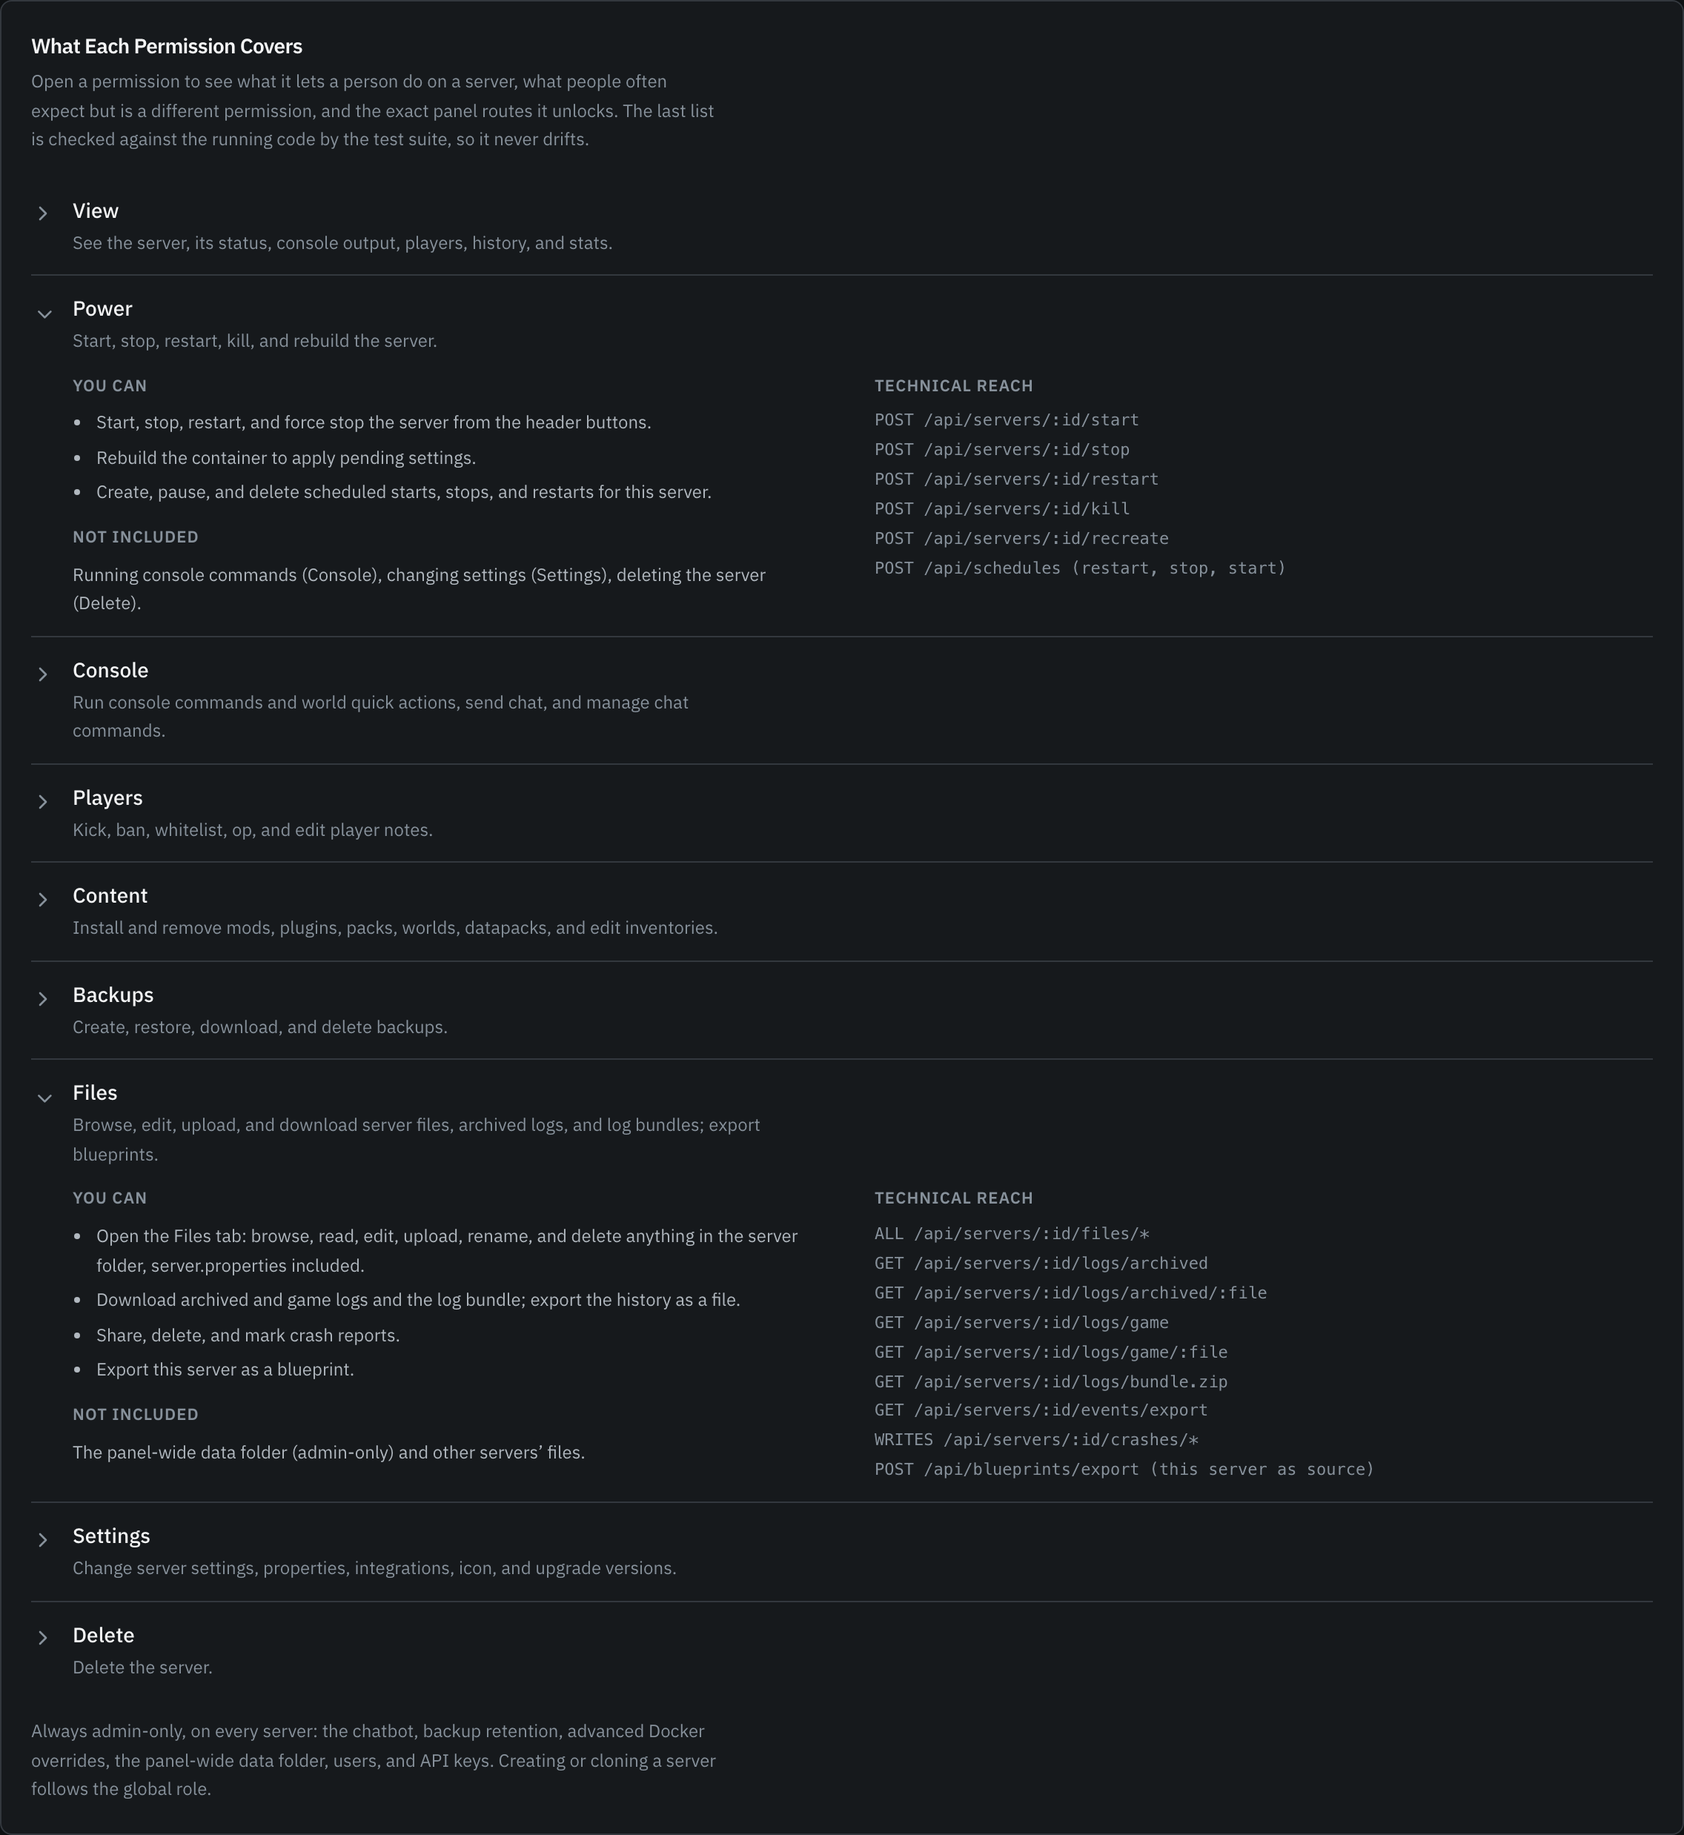
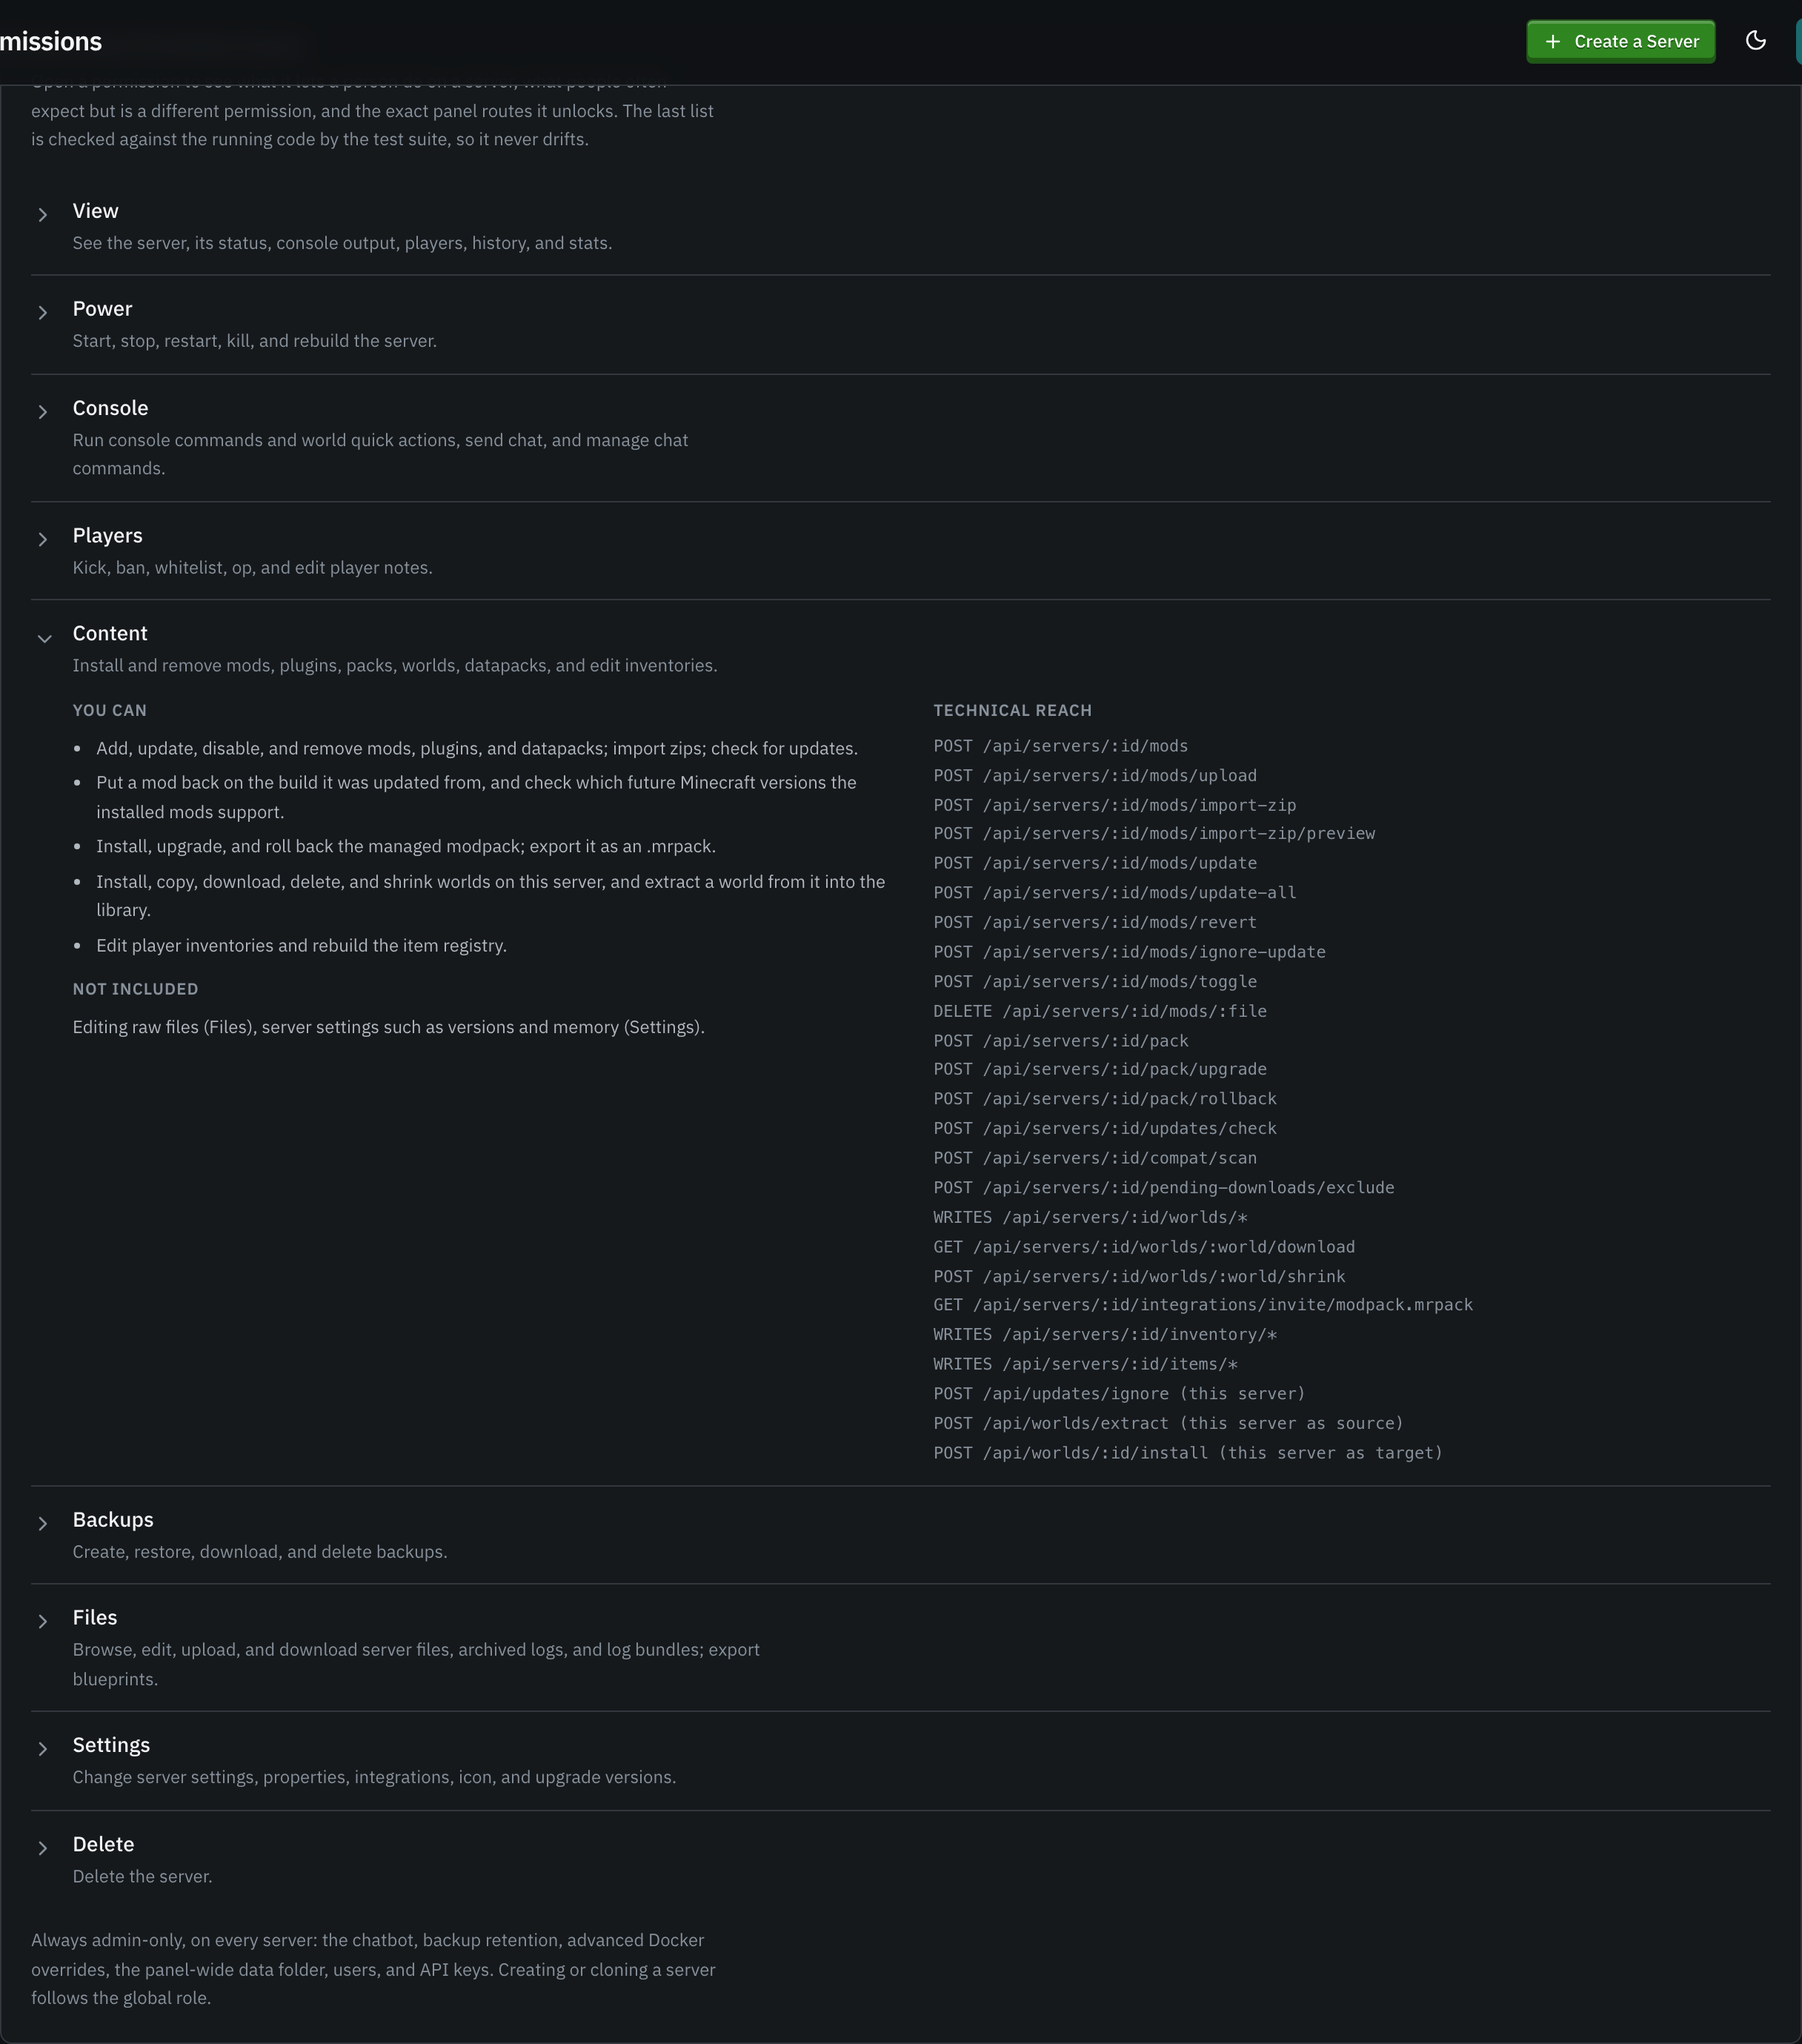
docs(updates): screenshots for the Versions tab and Revert, and say what makes a report stale
The stale notice claimed the Minecraft version or loader had changed, which is
only two of the three triggers - changing the mods is the one people will hit
most, since updating a mod does it. Both the page and the API message now say
so, with a test pinning the wording.

Screenshots: the Versions tab, a version opened with the blocking mods, the
Revert button on the Mods tab, the tab on a phone, and a refreshed permission
reference (the Content permission gained a line and two routes). Cross-links
from the servers, modpacks and docs-index pages, and a README grid cell.

diff --git a/src/services/compat.js b/src/services/compat.js
@@ -602,8 +602,9 @@ function writeState(serverId, fields) {
 
 /**
  * The stored report plus scan state, as the Updates tab renders it.
- * `stale` means the report was built for a different Minecraft version or
- * loader than the server runs now - it is shown, clearly marked, never used.
+ * `stale` means the report answers for a different server than the one in
+ * front of us - another Minecraft version, another loader, or another set of
+ * mods. It is still shown, clearly marked, but nothing may act on it.
  */
 function getReport(serverId) {
   const serversService = require('./servers');
@@ -688,7 +689,7 @@ function reason(why, state) {
 // Why a version cannot be offered, in words a player can act on.
 const HOLD_REASON = {
   'no-scan': 'This server has mods, but its versions have never been checked. Run a version check first.',
-  stale: 'The last version check was for a different Minecraft version or mod loader. Run it again.',
+  stale: 'The mods, Minecraft version or loader have changed since the last version check. Run it again.',
   incomplete: 'The last version check did not finish. Run it again.',
   'unknown-mods': 'Some mods could not be identified, so there is no way to tell what they support.',
   'no-compatible-version': 'No newer Minecraft version has a build for every mod on this server.',

diff --git a/test/compat-state.test.js b/test/compat-state.test.js
@@ -120,6 +120,15 @@ test('a report stops being usable the moment the mods change', () => {
   assert.equal(compat.compatCeiling(id).ceiling, '1.20.4');
 });
 
+test('the stale message says what actually changed, mods included', () => {
+  const id = seedForgeServer('srv_stale_copy', { mods: ['jei.jar'] });
+  storeReport(id, report());
+  fs.writeFileSync(dataPath('servers', id, 'mods', 'extra.jar'), 'not-a-real-jar');
+  const v = compat.upgradeVerdict(id, '1.20.4');
+  assert.equal(v.reason, 'stale');
+  assert.match(v.message, /mods/i, 'a changed mod set must not be reported as a version or loader change');
+});
+
 test('swapping a mod for a different build of the same name is a change too', () => {
   const id = seedForgeServer('srv_mods_swapped', { mods: ['jei.jar'] });
   storeReport(id, report());

diff --git a/docs/updates.md b/docs/updates.md
@@ -24,13 +24,23 @@ A newer Minecraft version is not an upgrade if your mods cannot come with you. E
 - The version the server runs now, and the **highest version every installed mod has a build for**.
 - One collapsible row per future Minecraft version, with how many mods are ready and how many have nothing published yet. Open a row to see which mods would be left behind, and which are fine.
 
+![Version compatibility](images/server-versions.png)
+
 Press **Check Future Versions** to run it. Nothing scans on its own: a check reads every jar in the server's mods folder and asks Modrinth and CurseForge about each one, so it only ever happens when you ask. Progress is saved as it goes, so closing the page, refreshing, or even restarting the panel picks the check up where it left off rather than starting again.
 
+A report only describes the server it was made for. Change the Minecraft version, the loader, or the mods themselves - add one, remove one, update one - and the report is marked out of date and stops being used, until you run the check again.
+
 Mods are identified from the modpack's own file list where there is one, and otherwise by the file's content, the same way a launcher recognises a jar. A file that neither registry recognises - a hand-built jar, a private build - is reported as **unknown**: while one is installed, the panel will not offer a one-click Minecraft version update at all, because it cannot honestly say what would break. Applying a version above what the mods support is refused, and names the mods blocking it.
+
+![A version opened, showing which mods would be left behind](images/server-versions-expanded.png)
+
+Opening a version lists the mods with no build for it first - the ones that decide the answer - and keeps the ready ones behind a click. Big packs load a page of mods at a time, so a 300-mod server opens as fast as a five-mod one.
 
 ## Undoing a mod update
 
 Every build a mod is updated from stays in the shared library, so an update that breaks something is reversible. The mod's row on the **Mods** tab gets a **Revert** button that puts the previous build back - no download, so it works even if the project has since been pulled from its registry. The build you reverted away from stops being offered until a newer one appears.
+
+![Revert a mod to the build it was updated from](images/mods-revert.png)
 
 ## Applying an update
 

diff --git a/docs/modpacks.md b/docs/modpacks.md
@@ -16,7 +16,7 @@ The **Modpacks** page (and the **From modpack** tab in the [creation wizard](ser
 
 ## How pinning works
 
-When you pick a pack, the panel resolves the exact version, records it, and installs that. On the **Updates** page you'll be told when a newer version is available; upgrading is a deliberate, guarded action with a pre-update backup and rollback. Stable-tracking servers are never offered a beta.
+When you pick a pack, the panel resolves the exact version, records it, and installs that. On the **Updates** page you'll be told when a newer version is available; upgrading is a deliberate, guarded action with a pre-update backup and rollback. Stable-tracking servers are never offered a beta. A server's own **Versions** tab answers the other half of the question: which future Minecraft versions the mods it actually has can follow ([updates](updates.md#minecraft-version-compatibility)).
 
 Servers created on very old panel versions (before 0.9.7) could be left _unpinned_, meaning the container image would quietly install the newest pack version on every start. The panel now repairs these at boot: it locks each one to the version that is actually installed (read from the panel's own records or the image's install manifest, never a freshly resolved "latest") and logs an event. If it can't tell what's installed, the server's Settings page shows a warning asking you to pick the version manually, and any attempt to save an unpinned modpack configuration is rejected outright.
 

diff --git a/docs/servers.md b/docs/servers.md
@@ -38,7 +38,7 @@ Opening a server gives you a tabbed workspace:
 - **Overview** - status, live stats, uptime, and the primary start / stop / restart controls.
 - **Console** - the live log stream and command input, plus in-game chat ([details](console-and-chat.md)).
 - **Players** - who's online, plus inventory, statistics, and [chat commands](console-and-chat.md).
-- **Mods** - the installed mod list, the [mod browser](modpacks.md), and content updates.
+- **Mods** - the installed mod list, the [mod browser](modpacks.md), and content updates. Its **Versions** sub-tab checks which future Minecraft versions your mods have builds for ([updates](updates.md#minecraft-version-compatibility)).
 - **World** - [worlds, the live map, and the file manager](worlds-and-files.md).
 - **Backups** - [snapshots and restore](backups.md) for this server.
 - **Monitoring** - per-server history and live metrics, including crash reports (see below).

diff --git a/docs/README.md b/docs/README.md
@@ -24,7 +24,7 @@ A complete, self-hosted control panel for [itzg/docker-minecraft-server](https:/
 - **[Blueprints](blueprints.md)** - capture a server's whole configuration and stamp out new ones from it.
 - **[Schedules](schedules.md)** - cron-driven restarts, backups, and commands.
 - **[Storage](storage.md)** - per-server disk usage and panel-enforced quotas.
-- **[Updates](updates.md)** - track new server, pack, image, and mod versions.
+- **[Updates](updates.md)** - track new server, pack, image, and mod versions, check which Minecraft versions your mods support, and undo a mod update.
 - **[Activity log](activity.md)** - an audit trail of everything that happened.
 - **[Integrations](integrations.md)** - Discord webhook notifications and the Alerts category.
 - **[Public API](public-api.md)** - a read-only, token-authenticated HTTP API for fetching server status from outside the panel.

diff --git a/README.md b/README.md
@@ -251,7 +251,7 @@ pm2 save
   </tr>
   <tr>
     <td><img src="docs/screenshots/13-blueprints.png" alt="Blueprints"><br><sub><b>Blueprints</b>: portable <code>.mcserver.zip</code> recipes; export a server, import it anywhere, get the same server.</sub></td>
-    <td></td>
+    <td><img src="docs/screenshots/16-versions.png" alt="Minecraft version compatibility"><br><sub><b>Version compatibility</b>: which future Minecraft versions your mods actually have builds for, per version, so an upgrade is only ever offered when the mods can follow.</sub></td>
   </tr>
 </table>
 

diff --git a/docs/getting-started.md b/docs/getting-started.md
@@ -38,6 +38,7 @@ Every page is laid out for a narrow screen first and widens from there: the side
   <img src="images/mobile/server-overview.png" alt="Server overview on a phone" width="180">
   <img src="images/mobile/server-console.png" alt="Console on a phone" width="180">
   <img src="images/mobile/mods.png" alt="Mods tab on a phone" width="180">
+  <img src="images/mobile/server-versions.png" alt="Version compatibility on a phone" width="180">
   <img src="images/mobile/settings.png" alt="Settings on a phone" width="180">
 </p>
 
